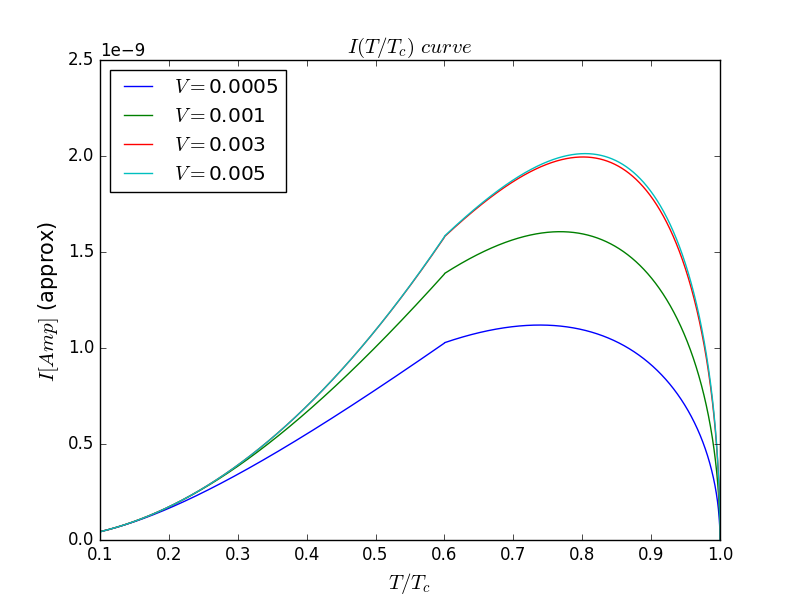
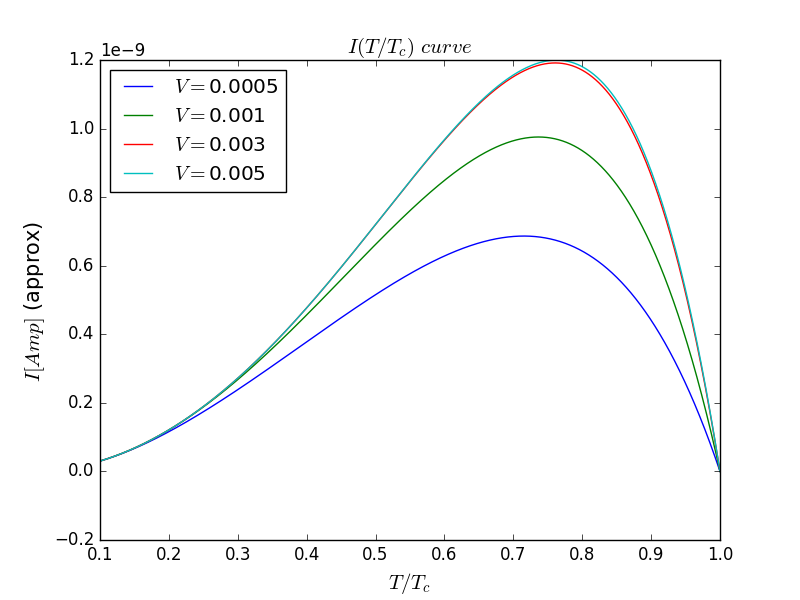
Ns

diff --git a/Current/I_vs_T.py b/Current/I_vs_T.py
@@ -93,7 +93,18 @@ def DeT(T):
     if(T<=0.6*Tc):
         
         return factor*Do*(1-(2*np.pi*kb*T*np.exp(-Do/(kb*T)))/Do)
-
+def Ns(T):
+    
+    mc2=2*0.51E6 #eV
+    lam=47.0E-3 #nm
+    TD=276.0 #k
+    N0=19.87 # 1/eV
+    g=1/(N0*np.log(1.13*TD/9.25))    #eV
+    e=1.0#*1.6E-19
+    
+    ns=(mc2/(8*e*np.pi*pow(lam,2)))*(1-pow(T,4)*np.exp(4.0/(g*N0))/pow(1.13*TD,4))
+    
+    return ns
 
 factor=0
 
@@ -122,7 +133,7 @@ for k in range(len(EV)):
         DeltaT=DeT(T[j]*Tc)
         
         
-        N=DeltaT/(2*g) #+ 0.5
+        N=Ns(T[j]*Tc) #+ 0.5
         
         
         J2[j]=N*area*C1(Vo,beta)*np.exp(beta*(C2(Vo,beta)*eta+mu))*(1-np.exp(-beta*EV[k]))/(1-C2(Vo,beta))

diff --git a/Current/current.py b/Current/current.py
@@ -107,7 +107,7 @@ def Ns(T):
     g=1/(N0*np.log(1.13*TD/9.25))    #eV
     e=1.0#*1.6E-19
 
-    ns=(mc2/(8*e*np.pi*pow(lam,2)))*(1-pow(T,4)*np.exp(4.0/(g*N0))/pow(1.13*TD,4))
+    ns=(mc2/(8.0*e*np.pi*pow(lam,2)))*(1-pow(T,4)*np.exp(4.0/(g*N0))/pow(1.13*TD,4))
     return ns
 
 
